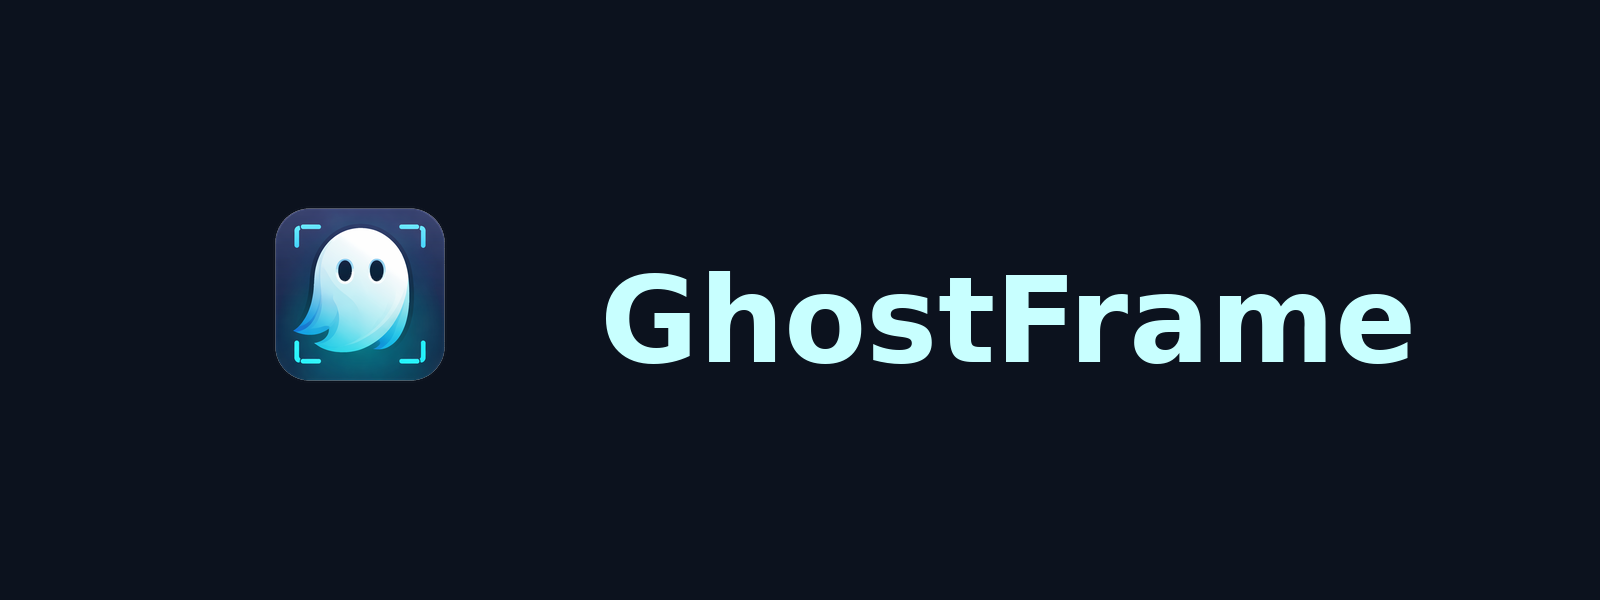
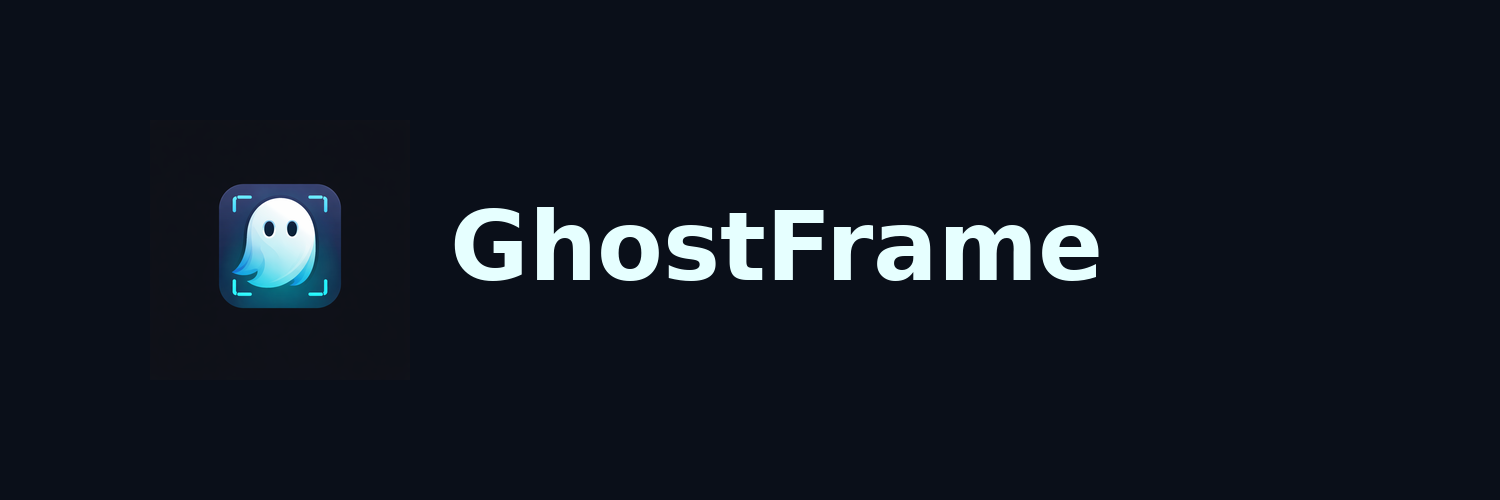
Add README header image

Changed region(s): [[0.1227, 0.33, 0.8893, 0.66]]

diff --git a/README.md b/README.md
@@ -1,3 +1,5 @@
+![GhostFrame](assets/header.png)
+
 # GhostFrame
 
 **GhostFrame** is a premium stealth mode manager for macOS that makes Electron-based applications invisible to screen recording, screen sharing, and screenshots. It also provides advanced features like Dock hiding and background process disguising.
@@ -69,7 +71,7 @@ cp -r build/GhostFrame.app /Applications/
 
 GhostFrame patches Electron applications by injecting `setContentProtection(true)` into the app's main process. This uses macOS's native content protection API to prevent the window from being captured.
 
-For Dock hiding, it modifies the app's `Info.plist` to set `LSUIElement = true`.
+For Dock hiding, it uses `app.dock.hide()` at runtime to remove the icon from the macOS Dock.
 
 For background disguise, it changes the `process.title` to a system-like name.
 
